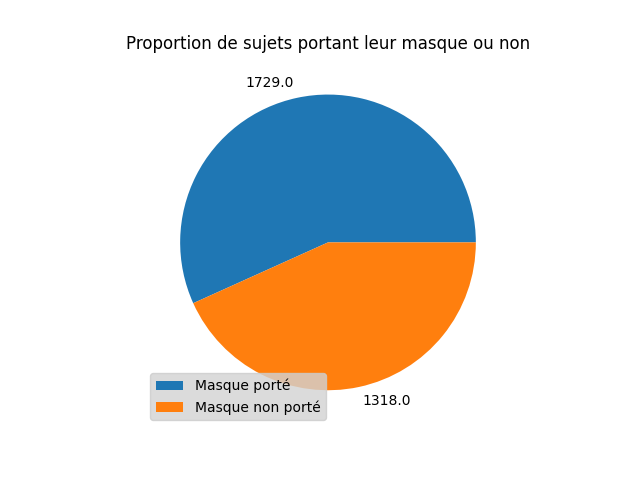
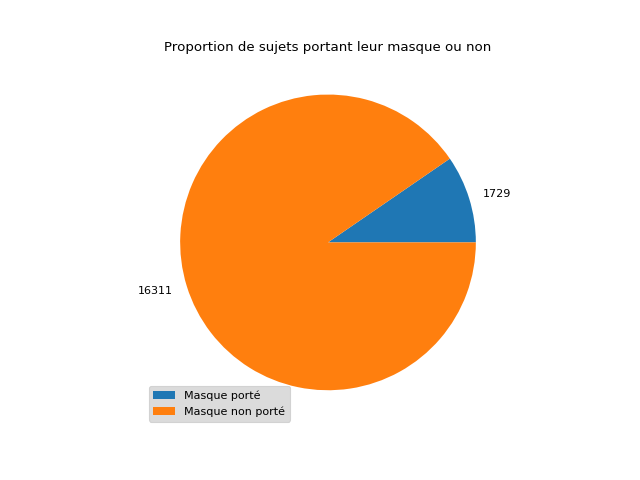
charts dynamiques

diff --git a/exemple_programe/plot.py b/exemple_programe/plot.py
@@ -5,28 +5,36 @@ from matplotlib.pyplot import pie, axis, show, figure
 path = ("exemple_programe\stat_CS\donnee.csv")
 df = pd.read_csv(path,sep=';',index_col=1)
 dp = df[['Somme_avec_masques','Somme_non_masques']].iloc[[0]]
-labels = ['Somme_avec_masques','Somme_non_masques']
-fig = plt.figure()
+
+fig = plt.figure(figsize=(8, 6), dpi=80)
 
 # Pie
 
 labels = [dp.iloc[0][0],dp.iloc[0][1]]
 sum1 = dp.iloc[0][0].sum()
 sum2= dp.iloc[0][1].sum()
-slices = [sum1,sum2]
+
+sum_masque = df['Somme_avec_masques'] = df['nb_masques_bien_portes'].sum()
+sum_Nmasque = df['Somme_sans_masques'] = df['nb_masques_non_portes'].sum()
+
+labels = [sum_masque,sum_Nmasque]
+
+slices = [sum_masque,sum_Nmasque]
+
 plt.pie(slices, labels = labels)
 plt.title('Proportion de sujets portant leur masque ou non')
 plt.legend(['Masque porté','Masque non porté'],loc = "lower left", facecolor = "lightgray")
 plt.savefig("app/resources/Pie")
-
 
 # Histogramme 
 
 hours = df.groupby('Heures').agg('sum')
 hours = hours[['nb_masques_bien_portes','nb_masques_non_portes']]
 hours.plot.bar()
-print(df.index.values)
 plt.title("Nombre de détections en fonction de l'heure")
 plt.savefig("app/resources/Histogram")
 plt.legend(["Masques bien portés","Masques mal portés"],loc = "upper right", facecolor = "lightgray")
 plt.show()
+
+
+   
